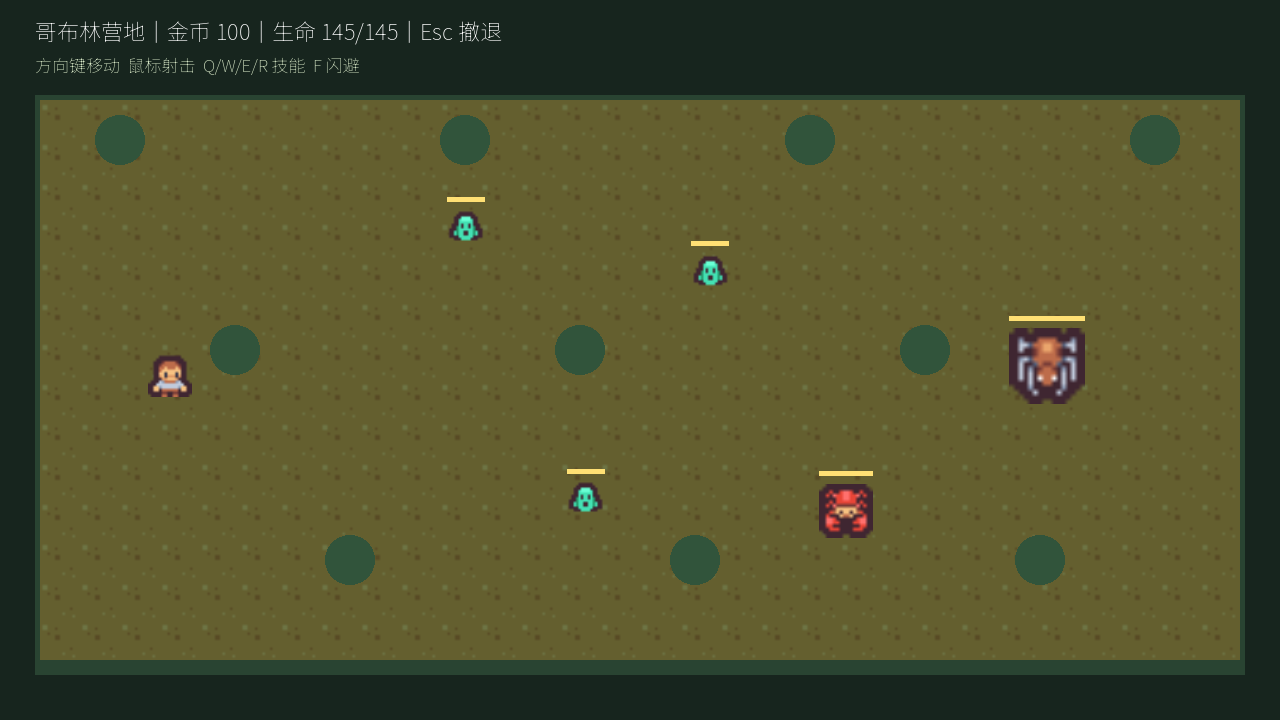
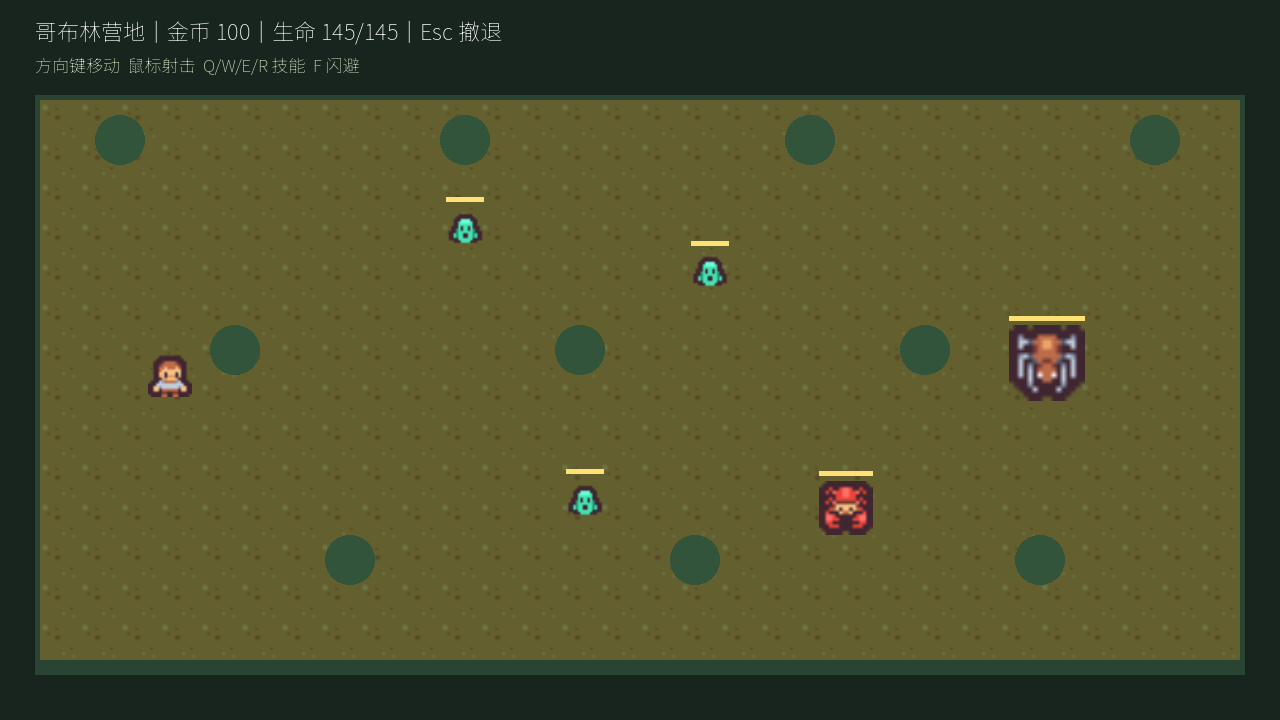
补充怪物受伤闪烁与死亡淡出反馈

diff --git a/assets/SOURCES_AND_LICENSES.md b/assets/SOURCES_AND_LICENSES.md
@@ -5,4 +5,4 @@
 | `kenney/tile_*.png` | 英雄、敌人、炮塔、核心、地面及道路 | [Kenney Tiny Dungeon 1.0](https://kenney.nl/assets/tiny-dungeon)，随包 `kenney/LICENSE.txt` 标明 CC0 1.0 | 不强制；此处注明 Kenney |
 | `fonts/NotoSansSC-VF.ttf` | 全部游戏内中文绘制 | 本机已安装的 Noto Sans SC 字体副本；[官方项目](https://github.com/google/fonts/tree/main/ofl/notosanssc) 标明 SIL OFL 1.1，许可证见 `fonts/OFL.txt` | 随字体保留许可证及版权声明 |
 
-Kenney 原包主要提供静态图块。当前角色移动以浮动帧表现，攻击和施法沿用弹丸、范围和命中特效，怪物蓄力用预警线和变色表现。尚未制作独立的逐帧行走、攻击、施法、受伤和死亡序列；这部分不能声称已经完成。
+Kenney 原包主要提供静态图块。当前角色移动以浮动帧表现，攻击和施法沿用弹丸、范围和命中特效，怪物蓄力用预警线、受伤变色、死亡缩小淡出表现。尚未制作独立的逐帧行走、攻击、施法、受伤和死亡序列；这部分不能声称已经完成。
